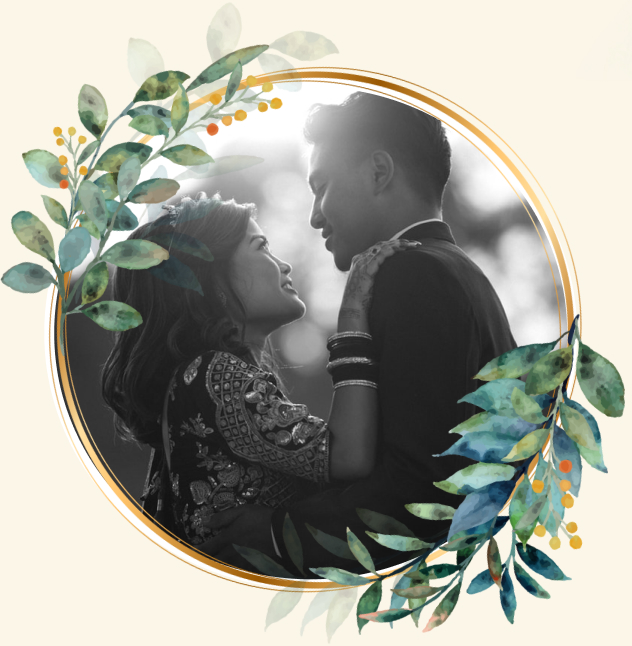
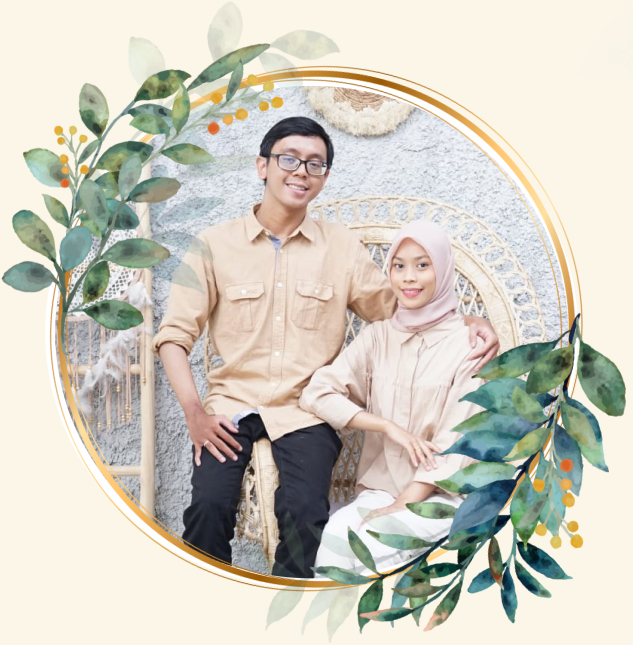
Add new images & clock fix

diff --git a/index.html b/index.html
@@ -39,7 +39,7 @@
 <body>
     <div class="content">
 
-        <div class="top">
+        <div class="top" data-aos="fade-in" data-aos-duration="2000">
             <h1><img src="img/top.png" alt="The Wedding"></h1>
             <figure>
                 <img src="img/top-1.png" alt="Rendi & Tiara">
@@ -85,7 +85,7 @@
     
         <div class="undangan">
             <h1>Assalamualaikum Wr. Wb</h1>
-            <p>Tanpa mengurangi rasa hormat, Kami mengundang Bapak/Ibu/Saudara/i serta Kerabat sekalian untuk menghadiri acara pernikahan kami :</p>
+            <p class="undangan-header">Tanpa mengurangi rasa hormat, Kami mengundang Bapak/Ibu/Saudara/i serta Kerabat sekalian untuk menghadiri acara pernikahan kami :</p>
             <figure><img src="img/und-1.png" alt="Rendi & Tiara"></figure>
             <div class="undangan-text">
                 <h2>Tiara Zein</h2>
@@ -99,26 +99,24 @@
         <div class="gallery">
             <div class="gallery-container">
                 <img src="img/gallery-1.jpg" alt="Rendi & Tiara">
-                <img src="img/gallery-1.jpg" alt="Rendi & Tiara">
-                <img src="img/gallery-1.jpg" alt="Rendi & Tiara">
-                <img src="img/gallery-1.jpg" alt="Rendi & Tiara">
-                <img src="img/gallery-1.jpg" alt="Rendi & Tiara">
-                <img src="img/gallery-1.jpg" alt="Rendi & Tiara">
-                <img src="img/gallery-1.jpg" alt="Rendi & Tiara">
-                <img src="img/gallery-1.jpg" alt="Rendi & Tiara">
+                <img src="img/gallery-2.jpg" alt="Rendi & Tiara">
+                <img src="img/gallery-3.jpg" alt="Rendi & Tiara">
+                <img src="img/gallery-4.jpg" alt="Rendi & Tiara">
+                <img src="img/gallery-5.jpg" alt="Rendi & Tiara">
+                <img src="img/gallery-6.jpg" alt="Rendi & Tiara">
             </div>
         </div>
         <div class="lokasi">
             <div class="akad">
                 <h1>Akad Nikah</h1>
                 <p>Sabtu, 4 Juni 2022</p>
-                <p>10:00 WIB s/d Selesai</p>
+                <p>10:00 WIB s/d 11.00 WIB</p>
                 <p>Jl. Perjuangan No.8, RT.004/RW.008, Marga Mulya, Kec. Bekasi Utara, Kota Bks, Jawa Barat 17143 </p>
             </div>
             <div class="resepsi">
                 <h1>Resepsi Nikah</h1>
                 <p>Sabtu, 4 Juni 2022</p>
-                <p>12:00 WIB s/d Selesai</p>
+                <p>11:00 WIB s/d 17:00 WIB</p>
                 <p>Jl. Perjuangan No.8, RT.004/RW.008, Marga Mulya, Kec. Bekasi Utara, Kota Bks, Jawa Barat 17143 </p>
             </div>
         </div>
@@ -132,6 +130,8 @@
         </div>
         <div class="qr">
             <h1>Amplop Digital</h1>
+            <p class="qr-text">Doa Restu anda merupakan karunia yang sangat berarti bagi kami. <br>
+                Dan jika memberi adalah ungkapan tanda kasih Anda, Anda dapat memberi kado secara cashless.</p>
             <div class="qr-container">
                 <!-- <div class="pc"></div> -->
                 <img class="pc" src="img/qr-code.jpg" alt="5405137604">

diff --git a/scss/style.scss b/scss/style.scss
@@ -298,19 +298,19 @@ button{
         margin: 30px 0;
     }
 
+    p.undangan-header{
+        margin: 30px 40px;
+    }
+
     p{
         font-size: 1.25rem;
         line-height: 30px;
         margin: 0 35px;
     }
 
-    p:first-of-type{
-        margin: 30px 40px;
-    }
-
     .undangan-text{
-        p:first-of-type{
-            margin: 0;
+        p{
+            margin: 10px;
         }
     }
 }
@@ -421,6 +421,13 @@ button{
         font-family: $font-hand-2;
         color: $secondary-color;
         font-size: 4rem;
+    }
+
+    p.qr-text{
+        font-size: 1.15rem;
+        line-height: 1.5em;
+        margin: 30px 20px;
+        color: $secondary-color;
     }
 
     .qr-container{
@@ -584,6 +591,23 @@ button{
 
     }
 
+    .gallery{
+        background: none;
+        
+
+        .gallery-container{
+            display: flex;
+            flex-wrap: wrap;
+            max-width: 700px;
+            margin: 0 auto;
+
+            img{
+                width: 48%;
+                margin-bottom: 10px;
+            }
+        }
+    }
+
     .lokasi{
         .resepsi{
             margin-top: -10px;
@@ -713,7 +737,7 @@ button{
             margin: 0 auto;
 
             img{
-                width: 24%;
+                width: 32%;
                 margin-bottom: 10px;
             }
         }

diff --git a/css/style.css b/css/style.css
@@ -290,18 +290,18 @@ button {
   margin: 30px 0;
 }
 
+.undangan p.undangan-header {
+  margin: 30px 40px;
+}
+
 .undangan p {
   font-size: 1.25rem;
   line-height: 30px;
   margin: 0 35px;
 }
 
-.undangan p:first-of-type {
-  margin: 30px 40px;
-}
-
-.undangan .undangan-text p:first-of-type {
-  margin: 0;
+.undangan .undangan-text p {
+  margin: 10px;
 }
 
 .gallery {
@@ -410,6 +410,13 @@ button {
   font-family: "Dancing Script";
   color: #40523F;
   font-size: 4rem;
+}
+
+.qr p.qr-text {
+  font-size: 1.15rem;
+  line-height: 1.5em;
+  margin: 30px 20px;
+  color: #40523F;
 }
 
 .qr .qr-container {
@@ -552,6 +559,22 @@ button {
     font-size: 1.5rem;
     margin: 20px 100px;
   }
+  .gallery {
+    background: none;
+  }
+  .gallery .gallery-container {
+    display: -webkit-box;
+    display: -ms-flexbox;
+    display: flex;
+    -ms-flex-wrap: wrap;
+        flex-wrap: wrap;
+    max-width: 700px;
+    margin: 0 auto;
+  }
+  .gallery .gallery-container img {
+    width: 48%;
+    margin-bottom: 10px;
+  }
   .lokasi .resepsi {
     margin-top: -10px;
   }
@@ -646,7 +669,7 @@ button {
     margin: 0 auto;
   }
   .gallery .gallery-container img {
-    width: 24%;
+    width: 32%;
     margin-bottom: 10px;
   }
   .lokasi {
